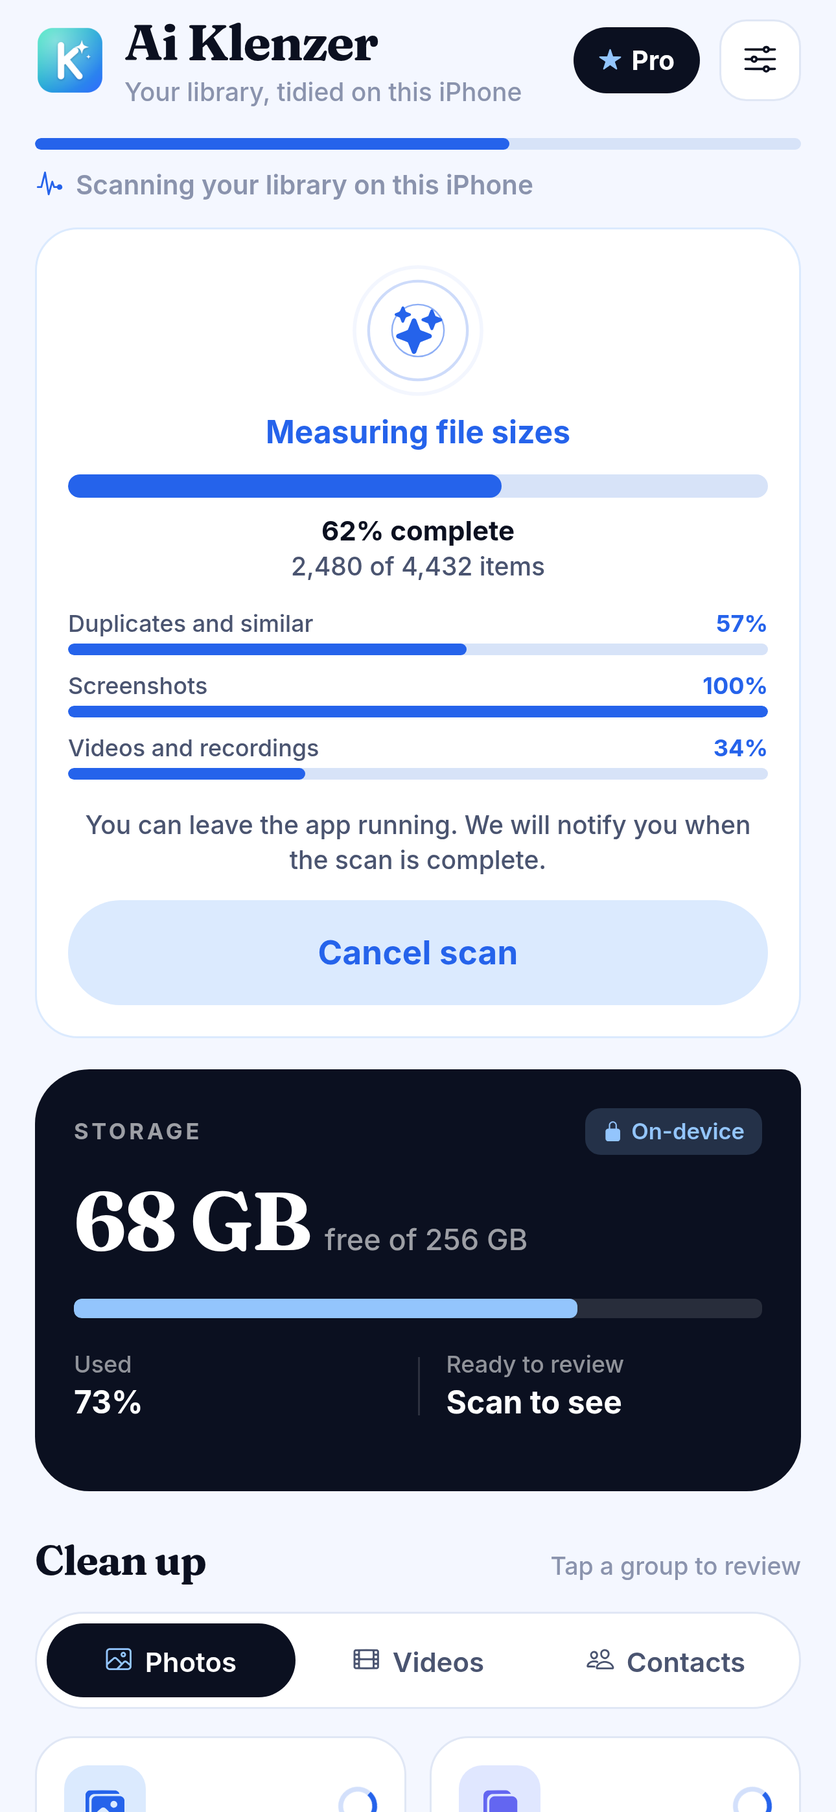
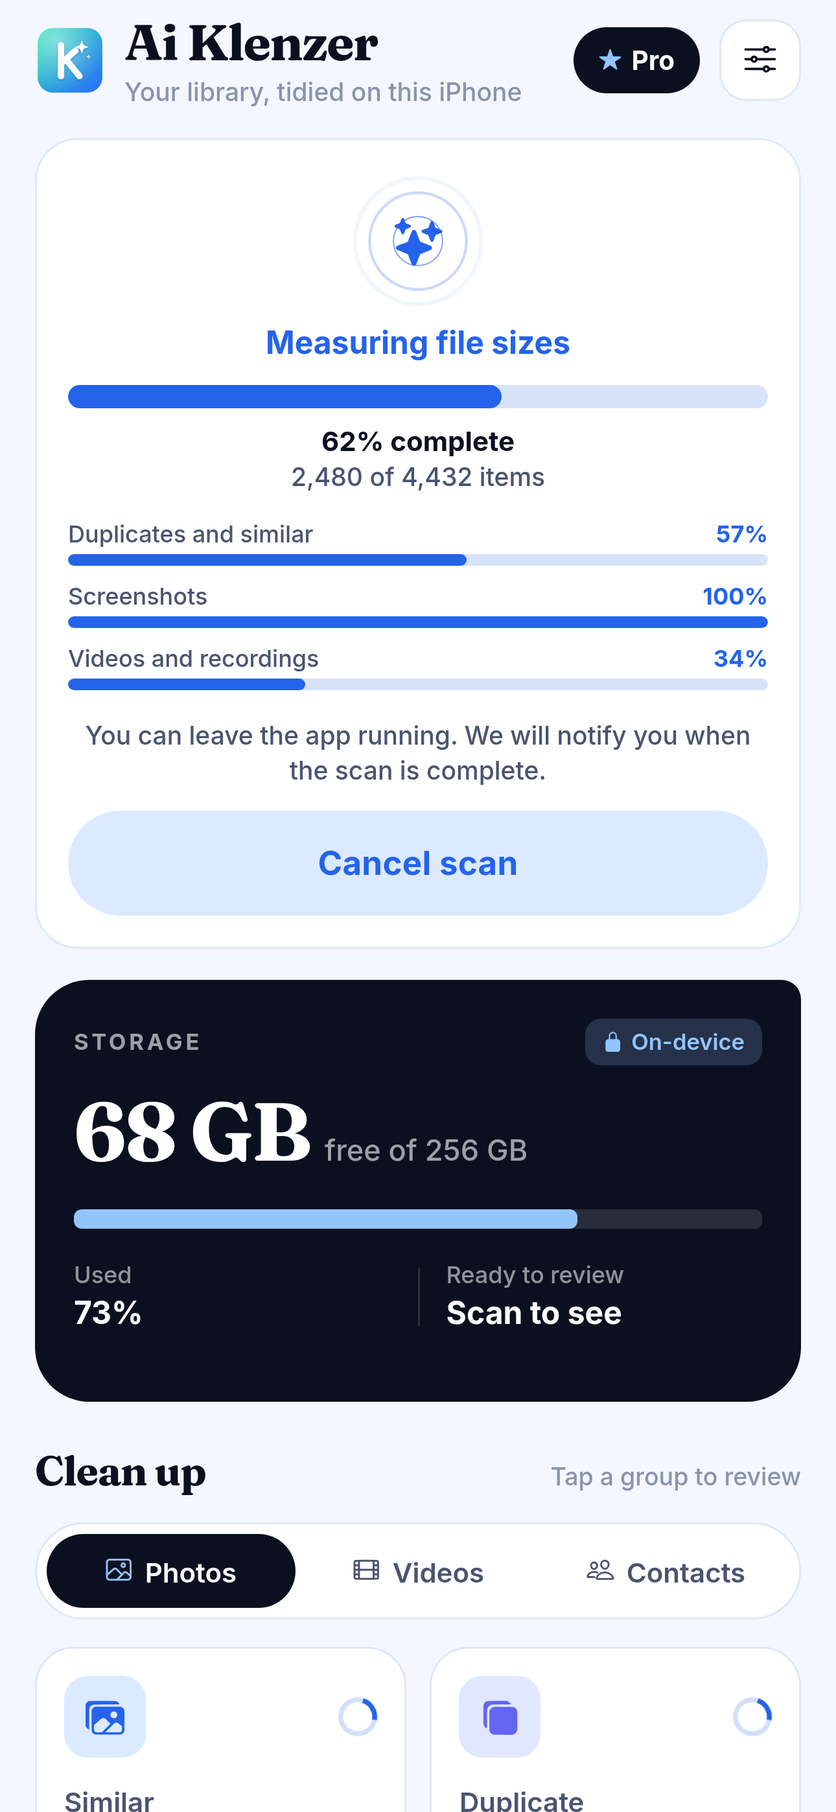
Rename remaining user-facing Klenzer copy and drop the slim scan bar.
In-app alerts, empty states, onboarding, privacy copy, and the in-repo policy stub now say Ai Klenzer. Home shows only the large scan card while a scan runs, and the home test checks that card instead of the slim bar.

diff --git a/src/lib/privacy.ts b/src/lib/privacy.ts
@@ -3,43 +3,43 @@ export const PRIVACY_UPDATED = '12 November 2026';
 export const PRIVACY_SECTIONS: { h: string; p: string }[] = [
   {
     h: 'The short version',
-    p: 'Your photos, videos and contacts stay on this device and are never uploaded. There is no account and no sign-in. Purchase status for Klenzer Pro is handled by the Apple App Store or Google Play on your device. The app does not collect a name, email address, payment card details, or an account ID.',
+    p: 'Your photos, videos and contacts stay on this device and are never uploaded. There is no account and no sign-in. Purchase status for Ai Klenzer Pro is handled by the Apple App Store or Google Play on your device. The app does not collect a name, email address, payment card details, or an account ID.',
   },
   {
-    h: 'What Klenzer accesses',
-    p: 'With your permission, Klenzer reads your photo and video library on-device to detect duplicate or near-identical photos, screenshots, Live Photos and large videos, and to measure their file sizes. When you convert a Live Photo to a still, it also reads the still image, its date, location, favourite state and album membership so those can be copied onto the new still. It also reads your device’s total and free storage to show it on the home screen. That media is processed on the device only and is never uploaded.',
+    h: 'What Ai Klenzer accesses',
+    p: 'With your permission, Ai Klenzer reads your photo and video library on-device to detect duplicate or near-identical photos, screenshots, Live Photos and large videos, and to measure their file sizes. When you convert a Live Photo to a still, it also reads the still image, its date, location, favourite state and album membership so those can be copied onto the new still. It also reads your device’s total and free storage to show it on the home screen. That media is processed on the device only and is never uploaded.',
   },
   {
     h: 'Contacts',
-    p: 'If you open Merge Contacts and allow access, Klenzer reads the names, phone numbers and email addresses in your address book on the device to find likely duplicates. When you confirm a merge, it copies the missing numbers and emails onto the contact that stays and deletes the duplicates from your address book. Contacts are never uploaded, copied off the device, or stored by Klenzer outside your address book.',
+    p: 'If you open Merge Contacts and allow access, Ai Klenzer reads the names, phone numbers and email addresses in your address book on the device to find likely duplicates. When you confirm a merge, it copies the missing numbers and emails onto the contact that stays and deletes the duplicates from your address book. Contacts are never uploaded, copied off the device, or stored by Ai Klenzer outside your address book.',
   },
   {
     h: 'Secret Album',
-    p: 'Photos you move into Secret Album are encrypted on the device with AES-256-GCM and stored inside Klenzer’s private storage. The encryption key is created on your phone and kept in the system Keychain, for this device only. Your PIN is never stored, only a salted hash of it, also in the Keychain. If you turn on Face ID, iOS checks your face and only tells Klenzer whether it matched; Klenzer never receives face data. After a photo is added, Klenzer can delete the original from Photos if you confirm. Klenzer cannot recover a forgotten PIN, and deleting the app deletes Secret Album.',
+    p: 'Photos you move into Secret Album are encrypted on the device with AES-256-GCM and stored inside Ai Klenzer’s private storage. The encryption key is created on your phone and kept in the system Keychain, for this device only. Your PIN is never stored, only a salted hash of it, also in the Keychain. If you turn on Face ID, iOS checks your face and only tells Ai Klenzer whether it matched; Ai Klenzer never receives face data. After a photo is added, Ai Klenzer can delete the original from Photos if you confirm. Ai Klenzer cannot recover a forgotten PIN, and deleting the app deletes Secret Album.',
   },
   {
     h: 'What is stored on your device',
-    p: 'Klenzer stores a few small preferences locally: whether you have finished the intro, how many free items you have used today, the running total of space you have cleared, whether you turned reminders on, and whether you chose not to see the Recently Deleted reminder again. It also keeps an on-device scan cache (file sizes and tiny perceptual hashes, keyed by photo id and modification date) so later scans can skip unchanged items, plus temporary thumbnails you can clear in the app. None of that cache is uploaded. Deleting the app removes this local data.',
+    p: 'Ai Klenzer stores a few small preferences locally: whether you have finished the intro, how many free items you have used today, the running total of space you have cleared, whether you turned reminders on, and whether you chose not to see the Recently Deleted reminder again. It also keeps an on-device scan cache (file sizes and tiny perceptual hashes, keyed by photo id and modification date) so later scans can skip unchanged items, plus temporary thumbnails you can clear in the app. None of that cache is uploaded. Deleting the app removes this local data.',
   },
   {
     h: 'Purchases',
-    p: 'Scanning and reviewing your library is free. Without Klenzer Pro you get 10 free items each day, shared across deleting photos and videos, merging contacts and adding photos to Secret Album, counted on the device only. Klenzer Pro removes the limit and adds Convert Live Photo to still. It is sold as a one-time lifetime unlock or an auto-renewing yearly or monthly subscription. Apple or Google processes the payment and the app checks those store entitlements on the device. It does not create an account or send a name or email. You can restore a previous purchase from Settings or the Klenzer Pro screen. Prices are shown in the app at the time of purchase and are not hard-coded.',
+    p: 'Scanning and reviewing your library is free. Without Ai Klenzer Pro you get 10 free items each day, shared across deleting photos and videos, merging contacts and adding photos to Secret Album, counted on the device only. Ai Klenzer Pro removes the limit and adds Convert Live Photo to still. It is sold as a one-time lifetime unlock or an auto-renewing yearly or monthly subscription. Apple or Google processes the payment and the app checks those store entitlements on the device. It does not create an account or send a name or email. You can restore a previous purchase from Settings or the Ai Klenzer Pro screen. Prices are shown in the app at the time of purchase and are not hard-coded.',
   },
   {
     h: 'Deleting photos',
-    p: 'Klenzer only deletes or converts items you select, and only after your phone’s own confirmation prompt. Converting a Live Photo keeps the still (with its date, location, favourite state and albums) and removes the original Live Photo. On iPhone, originals go to Recently Deleted, where you can restore them for up to 30 days. Space is freed after you empty Recently Deleted, or after those 30 days. On Android, items you confirm are deleted by the system and Klenzer cannot restore them. Convert to still is available on iPhone.',
+    p: 'Ai Klenzer only deletes or converts items you select, and only after your phone’s own confirmation prompt. Converting a Live Photo keeps the still (with its date, location, favourite state and albums) and removes the original Live Photo. On iPhone, originals go to Recently Deleted, where you can restore them for up to 30 days. Space is freed after you empty Recently Deleted, or after those 30 days. On Android, items you confirm are deleted by the system and Ai Klenzer cannot restore them. Convert to still is available on iPhone.',
   },
   {
     h: 'Reminders',
-    p: 'If you choose to turn them on (after your first scan), Klenzer schedules a local reminder every 3 days with your current used and total storage. The reminder is created and delivered by your phone itself: no server is involved, nothing is sent to us, and no push token is collected. Opening the app cancels and reschedules it with fresh numbers. Turn them off any time in Klenzer Settings, which cancels all scheduled reminders.',
+    p: 'If you choose to turn them on (after your first scan), Ai Klenzer schedules a local reminder every 3 days with your current used and total storage. The reminder is created and delivered by your phone itself: no server is involved, nothing is sent to us, and no push token is collected. Opening the app cancels and reschedules it with fresh numbers. Turn them off any time in Ai Klenzer Settings, which cancels all scheduled reminders.',
   },
   {
     h: 'Permissions',
-    p: 'Photo and video library access is the only permission Klenzer needs to scan. Contacts access is optional and only requested when you open Merge Contacts. Face ID is optional and only used to unlock Secret Album. Notification permission is optional and only requested if you choose reminders. You can change or revoke any of these at any time in your device Settings; Klenzer will still open but cannot scan without photo access.',
+    p: 'Photo and video library access is the only permission Ai Klenzer needs to scan. Contacts access is optional and only requested when you open Merge Contacts. Face ID is optional and only used to unlock Secret Album. Notification permission is optional and only requested if you choose reminders. You can change or revoke any of these at any time in your device Settings; Ai Klenzer will still open but cannot scan without photo access.',
   },
   {
     h: 'Children',
-    p: 'Klenzer is not directed at children under 13. Photos stay on the device. Purchase status, if you buy Pro, is checked with the store on this device as described above.',
+    p: 'Ai Klenzer is not directed at children under 13. Photos stay on the device. Purchase status, if you buy Pro, is checked with the store on this device as described above.',
   },
   {
     h: 'Changes',

diff --git a/src/app/secret-album.tsx b/src/app/secret-album.tsx
@@ -215,7 +215,7 @@ export default function SecretAlbum() {
 
   const offerDeleteOriginals = (count: number, assetIds: string[]) => {
     if (!assetIds.length) {
-      Alert.alert('Added to Secret Album', 'The originals are still in Photos. Klenzer could not link them to your library, so delete them in Photos if you want them gone.');
+      Alert.alert('Added to Secret Album', 'The originals are still in Photos. Ai Klenzer could not link them to your library, so delete them in Photos if you want them gone.');
       return;
     }
     Alert.alert(
@@ -244,7 +244,7 @@ export default function SecretAlbum() {
         ? locked
           ? `Too many tries. Try again in ${Math.ceil(locked / 1000)} s.`
           : 'Secret Album is locked.'
-        : `${PIN_MIN} to ${PIN_MAX} digits. Klenzer cannot recover a forgotten PIN.`;
+        : `${PIN_MIN} to ${PIN_MAX} digits. Ai Klenzer cannot recover a forgotten PIN.`;
     return (
       <View style={styles.root} testID="vault-lock">
         <ScreenHeader title="Secret Album" />
@@ -326,7 +326,7 @@ function AlbumGrid({ entries, thumbs, onOpen }: { entries: VaultEntry[]; thumbs:
       columnWrapperStyle={{ gap }}
       ItemSeparatorComponent={() => <View style={{ height: gap }} />}
       contentContainerStyle={{ padding: 20, paddingBottom: 190 }}
-      ListHeaderComponent={<Text style={styles.help}>Photos here are encrypted and stored only inside Klenzer. They never leave your phone.</Text>}
+      ListHeaderComponent={<Text style={styles.help}>Photos here are encrypted and stored only inside Ai Klenzer. They never leave your phone.</Text>}
       ListEmptyComponent={
         <View style={styles.emptyBox}>
           <Ionicons name="images-outline" size={36} color={colors.ink3} />
@@ -382,11 +382,11 @@ function Viewer({ entry, onClose, onRemoved }: { entry: VaultEntry | null; onClo
     setWorking(true);
     const ok = DEMO ? true : await exportToPhotos(entry);
     setWorking(false);
-    Alert.alert(ok ? 'Saved to Photos' : 'Could not save', ok ? 'A copy is back in your Photos library. It is still in Secret Album too.' : 'Klenzer needs permission to add photos to your library.');
+    Alert.alert(ok ? 'Saved to Photos' : 'Could not save', ok ? 'A copy is back in your Photos library. It is still in Secret Album too.' : 'Ai Klenzer needs permission to add photos to your library.');
   };
   const doRemove = () => {
     if (!entry) return;
-    Alert.alert('Remove from Secret Album?', 'The encrypted copy is deleted from Klenzer. Save it to Photos first if you want to keep it.', [
+    Alert.alert('Remove from Secret Album?', 'The encrypted copy is deleted from Ai Klenzer. Save it to Photos first if you want to keep it.', [
       { text: 'Cancel', style: 'cancel' },
       {
         text: 'Remove',

diff --git a/src/app/index.tsx b/src/app/index.tsx
@@ -7,7 +7,6 @@ import { ActivityIndicator, Alert, ScrollView, StyleSheet, Text, View } from 're
 import Animated, { FadeInDown, useReducedMotion } from 'react-native-reanimated';
 import { useSafeAreaInsets } from 'react-native-safe-area-context';
 import { Button } from '../components/Button';
-import { ScanBar } from '../components/ScanBar';
 import { ScanPulse } from '../components/ScanPulse';
 import { Segmented } from '../components/Segmented';
 import { CountUp } from '../components/CountUp';
@@ -159,9 +158,7 @@ export default function Home() {
         </View>
 
         {showScanning && (
-          <>
-            <ScanBar percent={pct} reduceMotion={rm} />
-            <Animated.View entering={rm ? undefined : FadeInDown} style={styles.scanCard}>
+            <Animated.View entering={rm ? undefined : FadeInDown} style={styles.scanCard} testID="scan-card">
               <View style={{ alignItems: 'center', marginBottom: 6 }}>
                 <ScanPulse size={72} />
               </View>
@@ -210,7 +207,6 @@ export default function Home() {
                 accessibilityHint="Stops the current library scan"
               />
             </Animated.View>
-          </>
         )}
 
         {!!scanError && !scanning && (
@@ -220,12 +216,12 @@ export default function Home() {
         )}
 
         {denied && (
-          <Notice title="Photo access is off" body="Klenzer needs to read your photo library to find clutter. Photos never leave your device.">
+          <Notice title="Photo access is off" body="Ai Klenzer needs to read your photo library to find clutter. Photos never leave your device.">
             <Button variant="light" label={canAskAgain ? 'Allow access' : 'Open Settings'} onPress={canAskAgain ? () => void scan() : openSettings} />
           </Notice>
         )}
         {access === 'limited' && (
-          <Notice title="Limited photo access" body="Klenzer can only see the photos you selected, so results may be incomplete.">
+          <Notice title="Limited photo access" body="Ai Klenzer can only see the photos you selected, so results may be incomplete.">
             <Button variant="light" label="Choose more photos" onPress={manageLimited} />
           </Notice>
         )}

diff --git a/src/app/contacts.tsx b/src/app/contacts.tsx
@@ -73,7 +73,7 @@ export default function MergeContacts() {
     const groupsCount = new Set(work.map((w) => w.plan.keepId)).size;
     Alert.alert(
       groupsCount === 1 ? 'Merge these contacts?' : `Merge ${groupsCount} groups?`,
-      `${work.length === 1 ? '1 duplicate contact' : `${work.length} duplicate contacts`} will be removed after their numbers and emails are copied onto the contact that stays. This cannot be undone in Klenzer.`,
+      `${work.length === 1 ? '1 duplicate contact' : `${work.length} duplicate contacts`} will be removed after their numbers and emails are copied onto the contact that stays. This cannot be undone in Ai Klenzer.`,
       [
         { text: 'Cancel', style: 'cancel' },
         {
@@ -139,7 +139,7 @@ export default function MergeContacts() {
             <Ionicons name="people" size={30} color={colors.violet} />
           </View>
           <Text style={styles.emptyTitle}>Find duplicate contacts</Text>
-          <Text style={styles.emptyBody}>Klenzer looks for contacts with the same name, number or email and merges them on your phone. Contacts never leave your phone.</Text>
+          <Text style={styles.emptyBody}>Ai Klenzer looks for contacts with the same name, number or email and merges them on your phone. Contacts never leave your phone.</Text>
           <Button
             label={access === 'denied' && !canAsk ? 'Open Settings' : 'Allow contacts access'}
             onPress={() => (access === 'denied' && !canAsk ? Linking.openSettings() : void refresh(true))}

diff --git a/src/app/paywall.tsx b/src/app/paywall.tsx
@@ -67,7 +67,7 @@ export default function Paywall() {
       Haptics.notificationAsync(Haptics.NotificationFeedbackType.Success).catch(() => {});
       completeUnlock();
     } else if (r === 'pending') {
-      Alert.alert('Purchase pending', 'This purchase is waiting for approval. Klenzer will unlock once it is confirmed.');
+      Alert.alert('Purchase pending', 'This purchase is waiting for approval. Ai Klenzer will unlock once it is confirmed.');
     } else if (r === 'error') {
       Alert.alert('Purchase didn’t go through', 'You haven’t been charged. Please try again in a moment.');
     }
@@ -82,7 +82,7 @@ export default function Paywall() {
       Haptics.notificationAsync(Haptics.NotificationFeedbackType.Success).catch(() => {});
       completeUnlock();
     } else if (r === 'none') {
-      Alert.alert('Nothing to restore', `We couldn’t find a previous Klenzer purchase on this ${ACCOUNT}.`);
+      Alert.alert('Nothing to restore', `We couldn’t find a previous Ai Klenzer purchase on this ${ACCOUNT}.`);
     } else if (r === 'error') {
       Alert.alert('Restore didn’t finish', `We couldn’t reach the ${STORE} just now. Please try again in a moment.`);
     }

diff --git a/scripts/home-and-paywall.test.ts b/scripts/home-and-paywall.test.ts
@@ -53,7 +53,8 @@ describe('home layout', () => {
     assert.doesNotMatch(home, /kind="photos"/);
     assert.doesNotMatch(home, /title="Videos"/);
     assert.doesNotMatch(home, /ScanProgress/);
-    assert.match(home, /<ScanBar/);
+    assert.doesNotMatch(home, /<ScanBar/);
+    assert.match(home, /testID="scan-card"/);
   });
   it('has the Photos, Videos and Contacts switcher and no Compress row', () => {
     assert.match(home, /<Segmented/);
@@ -62,10 +63,12 @@ describe('home layout', () => {
     }
     assert.doesNotMatch(home, /Want to save up extra space\?/);
   });
-  it('scan bar copy has no ellipsis character', () => {
-    const bar = src('src/components/ScanBar.tsx');
-    assert.match(bar, /'Scanning your library on this iPhone'/);
-    assert.doesNotMatch(bar, /\u2026/);
+  it('the large scan card is the only progress indicator and has no ellipsis', () => {
+    assert.match(home, /accessibilityRole="progressbar"/);
+    assert.match(home, /You can leave the app running/);
+    assert.match(home, /label="Cancel scan"/);
+    assert.doesNotMatch(home, /\u2026/);
+    assert.doesNotMatch(home, /Scanning your library on this iPhone/);
   });
 });
 

diff --git a/src/app/settings.tsx b/src/app/settings.tsx
@@ -17,7 +17,7 @@ export default function Settings() {
   const { access, openSettings, lifetimeFreed, reminders, setReminders, isPro } = useStore();
   const toggle = async (on: boolean) => {
     if ((await setReminders(on)) === 'blocked') {
-      Alert.alert('Notifications are off', 'Turn on notifications for Klenzer in Settings to get reminders.', [
+      Alert.alert('Notifications are off', 'Turn on notifications for Ai Klenzer in Settings to get reminders.', [
         { text: 'Not now', style: 'cancel' },
         { text: 'Open Settings', onPress: openSettings },
       ]);
@@ -25,7 +25,7 @@ export default function Settings() {
   };
   const doRestore = async () => {
     const r = await restore();
-    if (r === 'restored') Alert.alert('Restored', 'Klenzer is unlocked on this device.');
+    if (r === 'restored') Alert.alert('Restored', 'Ai Klenzer is unlocked on this device.');
     else if (r === 'none') Alert.alert('Nothing to restore', 'We couldn’t find a previous purchase on this account.');
     else if (r === 'error') Alert.alert('Restore didn’t finish', 'We couldn’t reach the store just now. Please try again in a moment.');
   };

diff --git a/store/privacy-policy.html b/store/privacy-policy.html
@@ -3,13 +3,13 @@
 <head>
   <meta charset="utf-8">
   <meta name="viewport" content="width=device-width,initial-scale=1">
-  <title>Klenzer Privacy Policy</title>
+  <title>Ai Klenzer Privacy Policy</title>
   <meta http-equiv="refresh" content="0; url=https://samayhuf-star.github.io/app-legal/klenzer/privacy.html">
 </head>
 <body>
-  <h1>Klenzer Privacy Policy</h1>
+  <h1>Ai Klenzer Privacy Policy</h1>
   <p>The current privacy policy is published at <a href="https://samayhuf-star.github.io/app-legal/klenzer/privacy.html">https://samayhuf-star.github.io/app-legal/klenzer/privacy.html</a>.</p>
-  <p>Your photos and videos stay on your device and are never uploaded. Purchase status for Klenzer Pro is handled by the Apple App Store or Google Play on your device. There is no account.</p>
+  <p>Your photos and videos stay on your device and are never uploaded. Purchase status for Ai Klenzer Pro is handled by the Apple App Store or Google Play on your device. There is no account.</p>
   <p>Contact: <a href="mailto:samayhuf@gmail.com">samayhuf@gmail.com</a>.</p>
 </body>
 </html>

diff --git a/src/app/onboarding.tsx b/src/app/onboarding.tsx
@@ -10,7 +10,7 @@ import { useStore } from '../lib/store';
 import { colors, fonts } from '../theme';
 
 const SLIDES = [
-  { icon: 'copy-outline', c: [colors.mint, colors.blue], title: 'Find the clutter', body: 'Klenzer spots duplicate and near-identical photos, old screenshots and huge videos hiding in your library.' },
+  { icon: 'copy-outline', c: [colors.mint, colors.blue], title: 'Find the clutter', body: 'Ai Klenzer spots duplicate and near-identical photos, old screenshots and huge videos hiding in your library.' },
   { icon: 'hand-left-outline', c: [colors.blue, colors.violet], title: 'You decide, always', body: 'Review everything before it goes. Nothing is deleted without your tap and your phone’s own confirmation.' },
   { icon: 'lock-closed-outline', c: [colors.violet, '#FF6BA8'], title: 'Private by design', body: 'Everything happens on your device. Your photos are never uploaded, shared or tracked. No account needed.' },
 ] as const;

diff --git a/src/app/done.tsx b/src/app/done.tsx
@@ -58,7 +58,7 @@ export default function Done() {
                 ? `${count.toLocaleString()} ${count === 1 ? 'item was' : 'items were'} removed from your library.`
                 : 'Temporary files removed.'}
           </Text>
-          {lifetimeFreed > 0 && <CountUp value={lifetimeFreed} format={(n) => `${formatBytes(n)} freed with Klenzer so far`} style={styles.total} />}
+          {lifetimeFreed > 0 && <CountUp value={lifetimeFreed} format={(n) => `${formatBytes(n)} freed with Ai Klenzer so far`} style={styles.total} />}
         </Animated.View>
       </View>
       <PressableScale onPress={() => router.replace('/')} accessibilityLabel="Done" style={styles.doneBtn} testID="done-button">

diff --git a/src/app/swipe.tsx b/src/app/swipe.tsx
@@ -41,7 +41,7 @@ export default function SwipeToOrganize() {
         <View style={styles.empty}>
           <Ionicons name="albums-outline" size={42} color={colors.blue} />
           <Text style={styles.emptyTitle}>Scan your library first</Text>
-          <Text style={styles.emptyBody}>Klenzer sorts your photos by month so you can swipe through them one at a time.</Text>
+          <Text style={styles.emptyBody}>Ai Klenzer sorts your photos by month so you can swipe through them one at a time.</Text>
           <Button label={scanning ? 'Scanning' : 'Scan now'} busy={scanning} onPress={() => void scan()} />
         </View>
       </View>

diff --git a/src/app/review/[kind].tsx b/src/app/review/[kind].tsx
@@ -209,7 +209,7 @@ export default function Review() {
             <Text style={styles.barNote}>
               {Platform.OS === 'ios' || DEMO
                 ? 'Your iPhone will ask you to confirm before anything is deleted. Items go to Recently Deleted.'
-                : 'Android will ask you to confirm. Deleted items can’t be restored by Klenzer.'}
+                : 'Android will ask you to confirm. Deleted items can’t be restored by Ai Klenzer.'}
             </Text>
             <FreeLeftNote style={{ fontSize: 12 }} />
           </>
